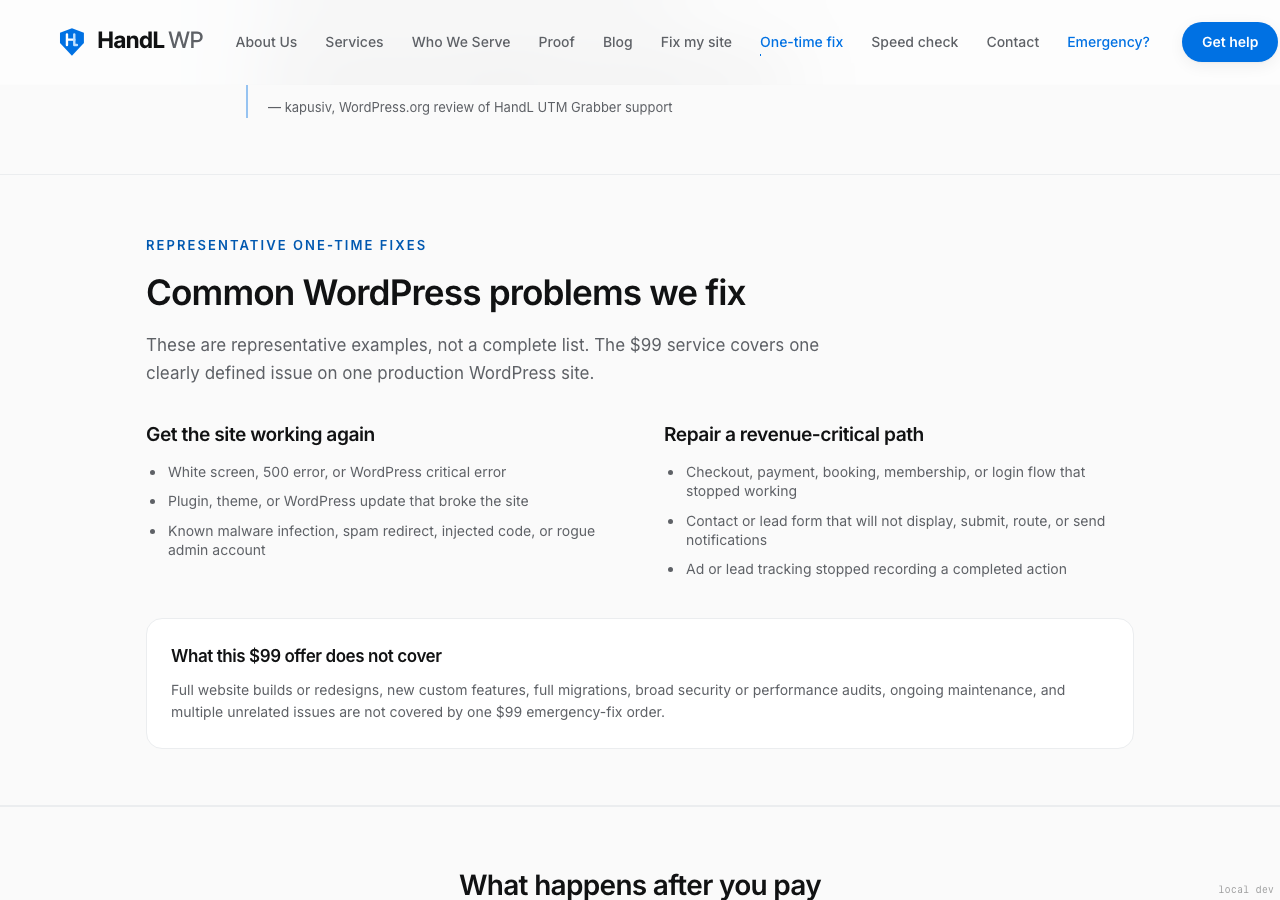
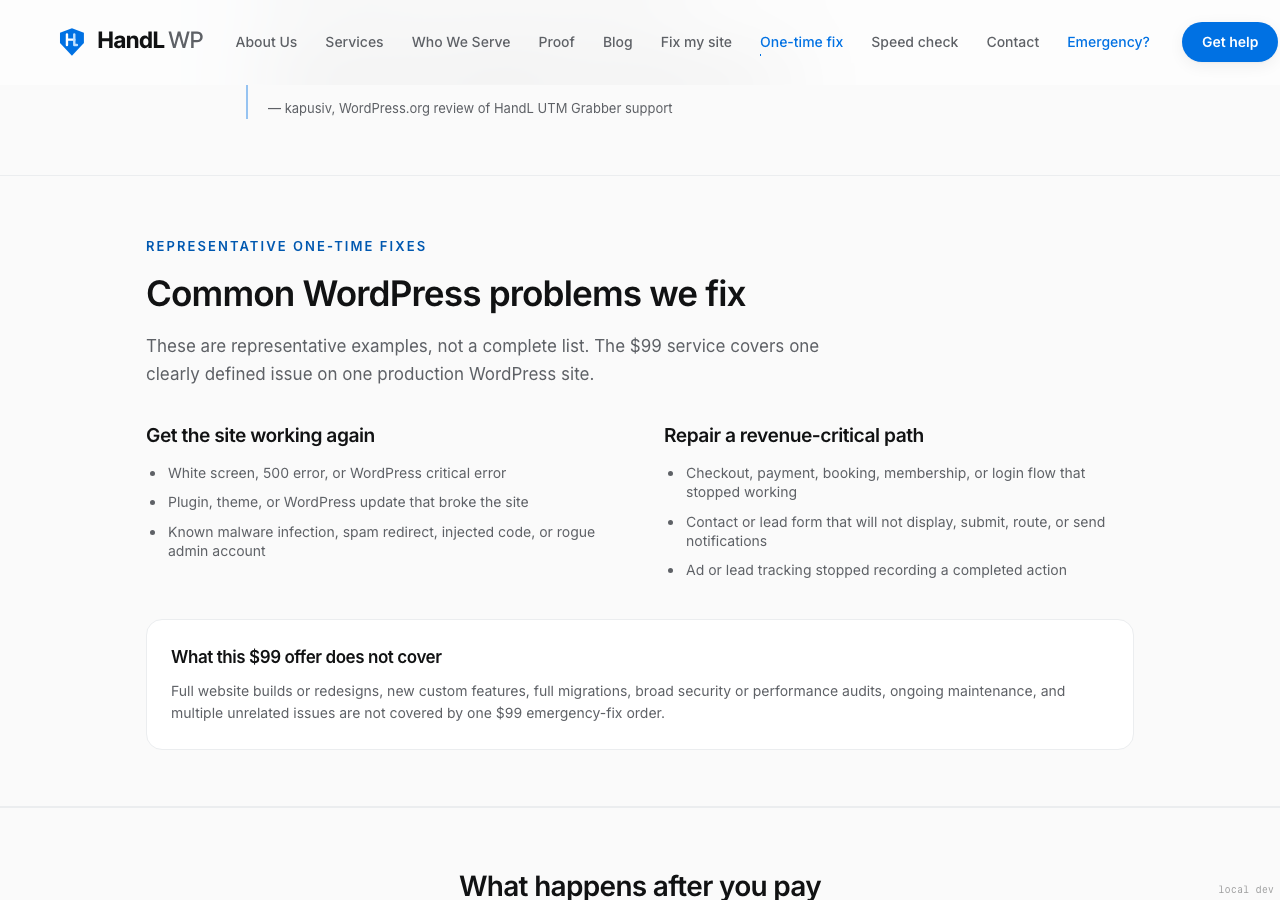
qa-evidence: handlwp fe#304 PR #322 proof refresh @ 8477cdd

diff --git a/docs/qa-evidence/2026-09-01-fe304-pr322/PROVENANCE.md b/docs/qa-evidence/2026-09-01-fe304-pr322/PROVENANCE.md
@@ -4,7 +4,7 @@
 |---|---|
 | FE issue | https://github.com/handldigital/handlwp.com-frontend/issues/304 |
 | FE PR | https://github.com/handldigital/handlwp.com-frontend/pull/322 |
-| App SHA | `2f7bcaa` |
+| App SHA | `8477cdd` |
 | Capture | Local `vite build` + preview at exact HEAD |
 
 Public host: `handldigital/ai-not` branch `qa-evidence` (private-repo release/raw URLs 404 unauth).
